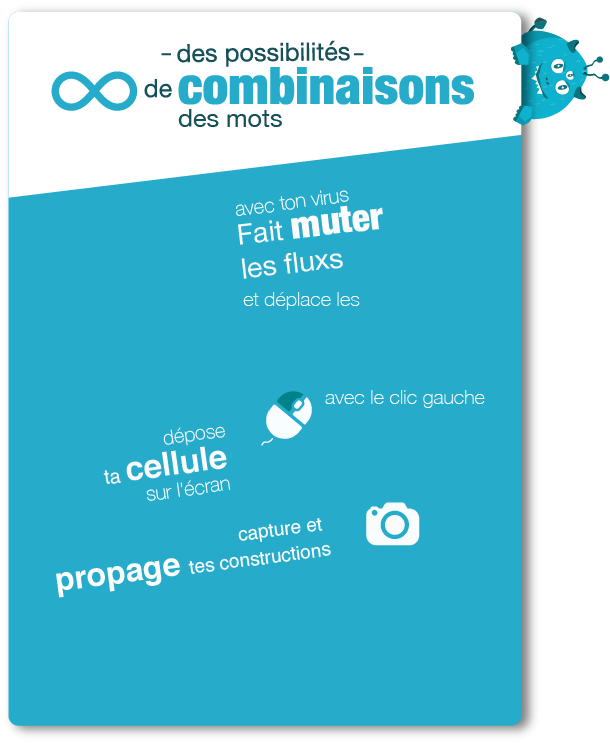
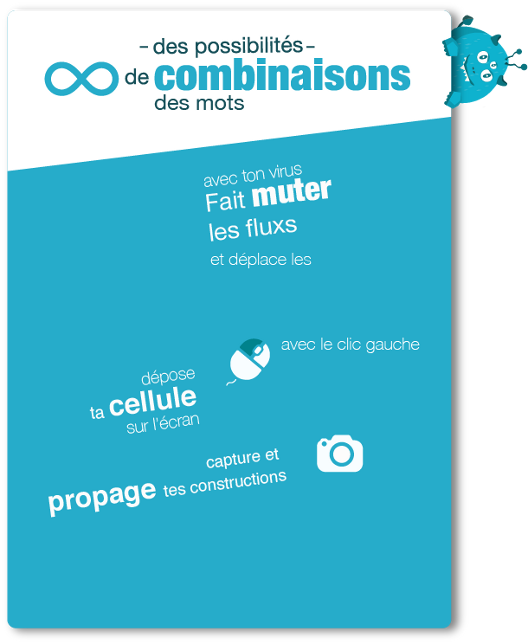
update pop up instruction

Changed region(s): [[0.697, 0.528, 0.7273, 0.559], [0.5758, 0.0932, 0.6061, 0.1242], [0.2424, 0.6522, 0.2727, 0.6832]]

diff --git a/js/script.js b/js/script.js
@@ -446,7 +446,7 @@ $(window).bind('touchstart', function(jQueryEvent) {
     
     //Apply Margin to Popup
     $('#popup_instruction').css({ 
-      'margin-top' : -popMargTop,
+      'margin-top' : -popMargTop + 40,
       'margin-left' : -popMargLeft
     });
     

diff --git a/css/style.css b/css/style.css
@@ -131,8 +131,8 @@ html,body{
 	position: absolute;
 }
 #imgPlay{
-  	margin-top: 200px;
-  	margin-left: 190px;
+  	margin-top: 150px;
+  	margin-left: 150px;
 }
 #gifInstruction {
   margin-top: 140px;
